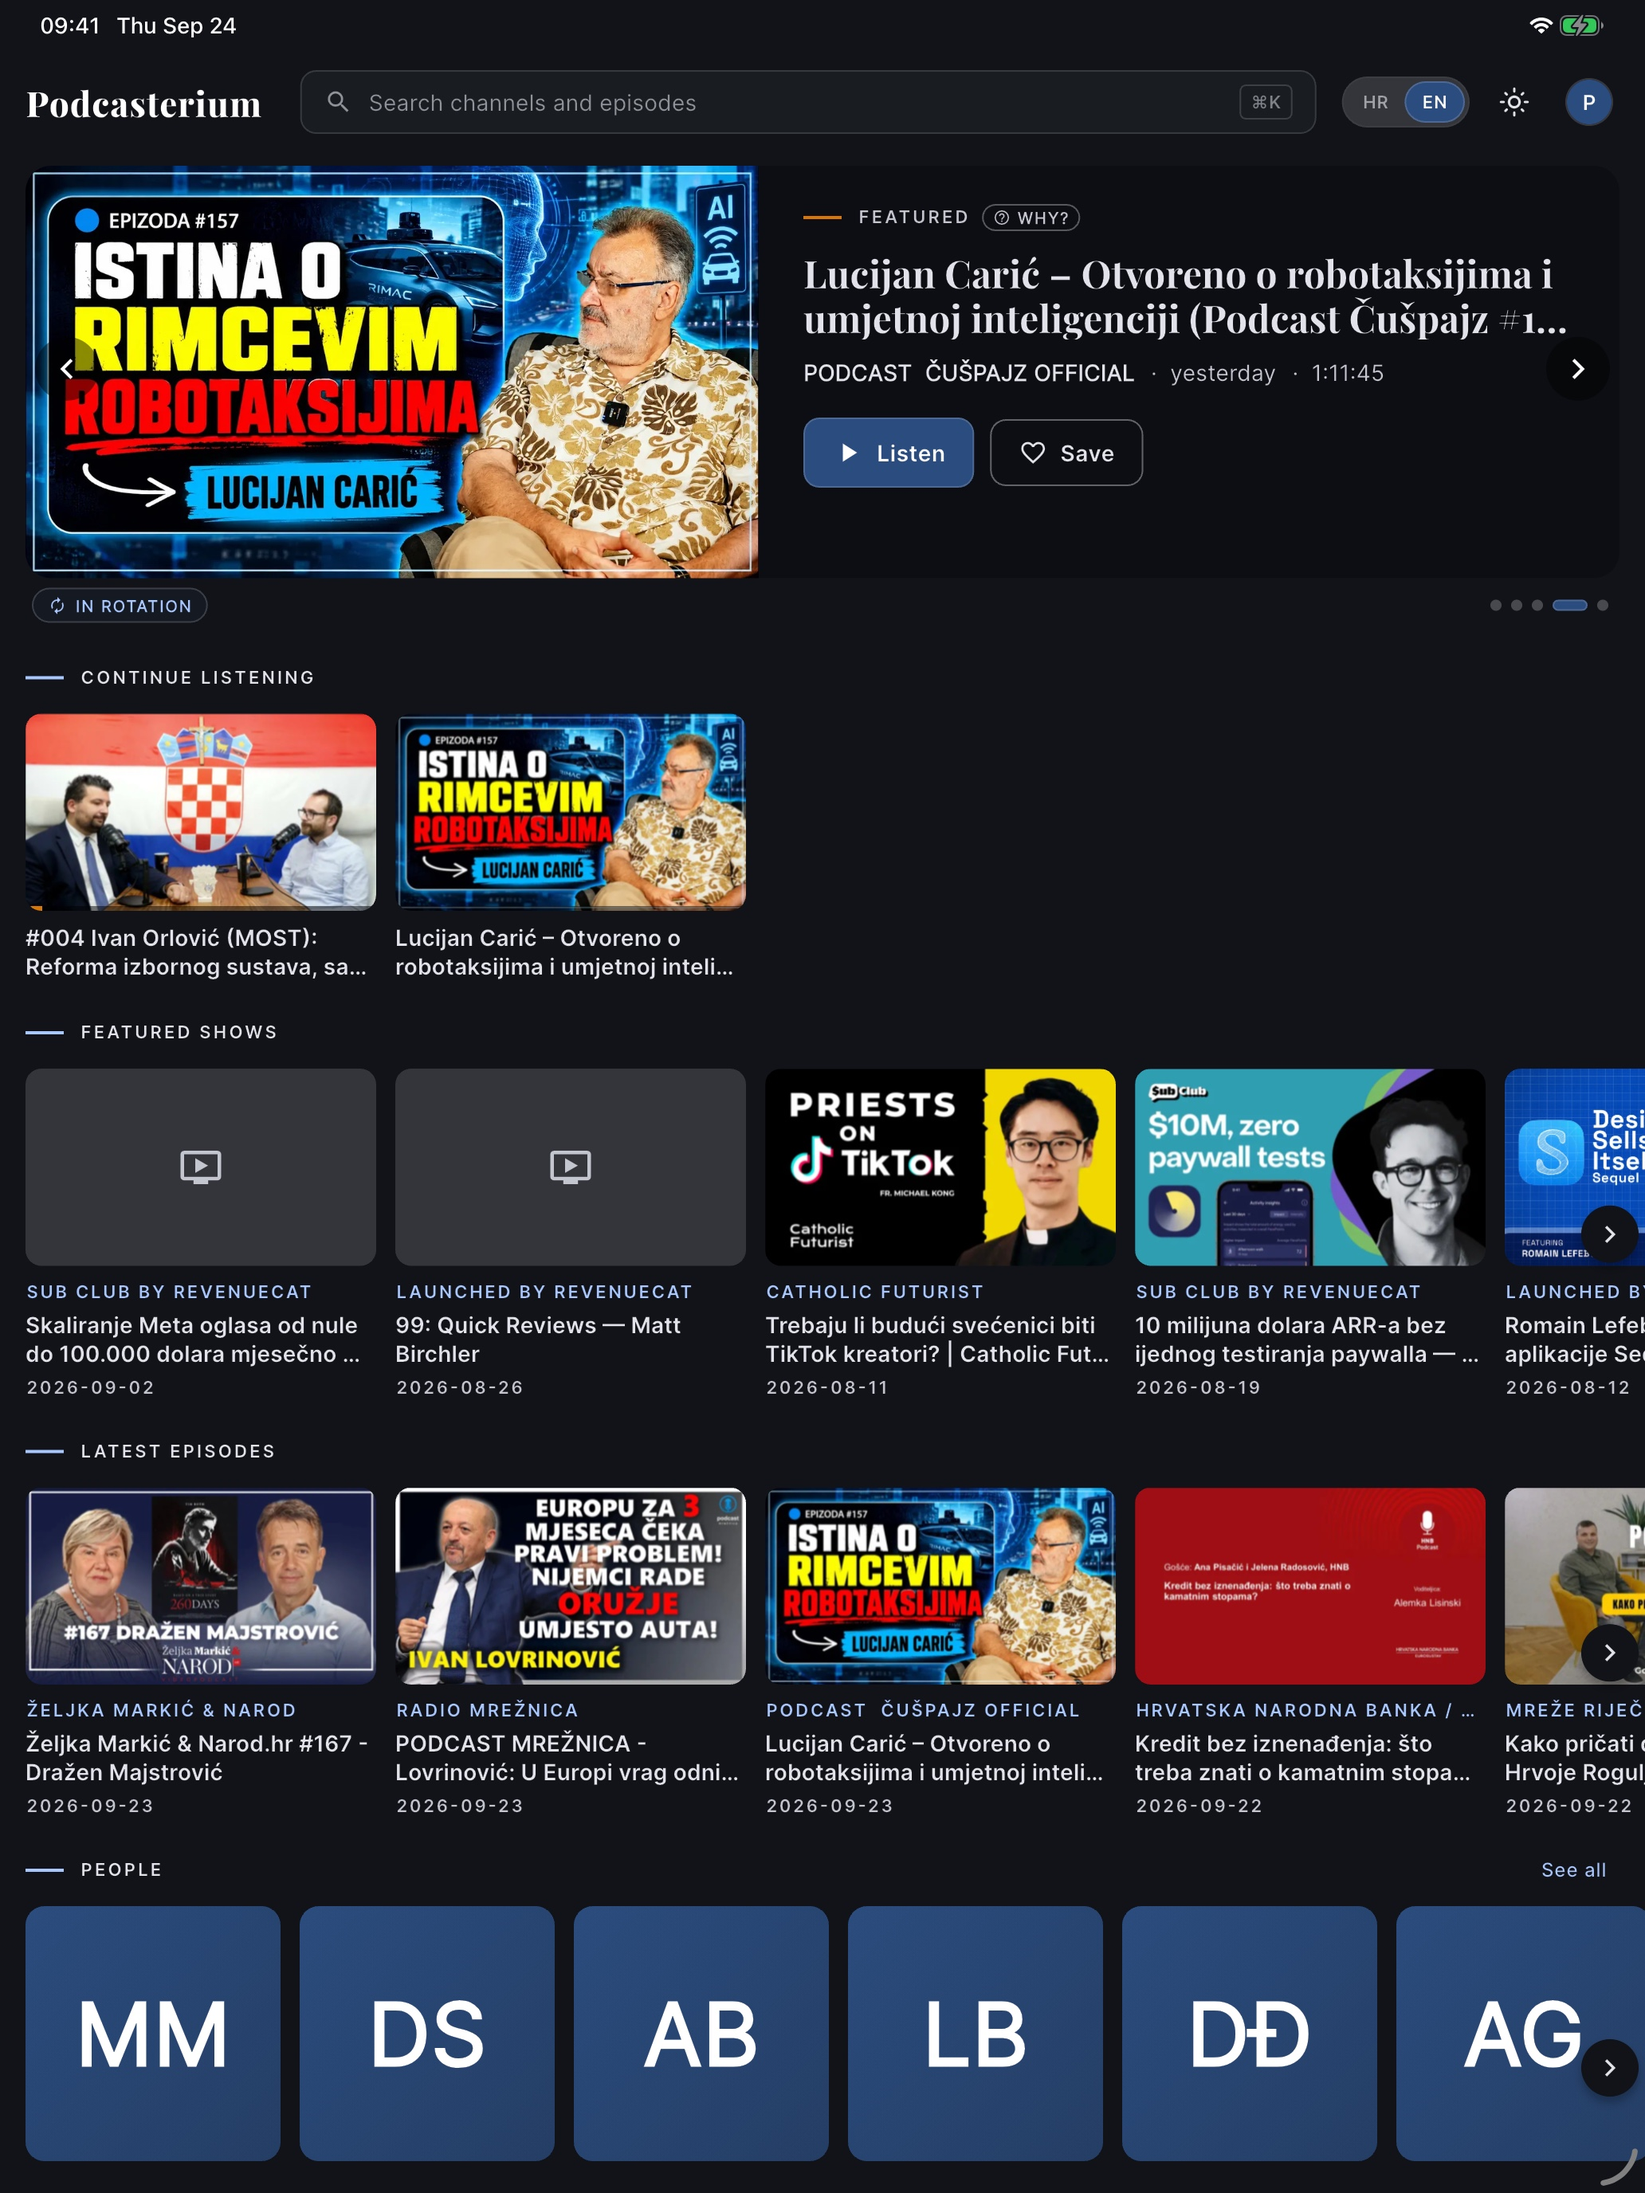
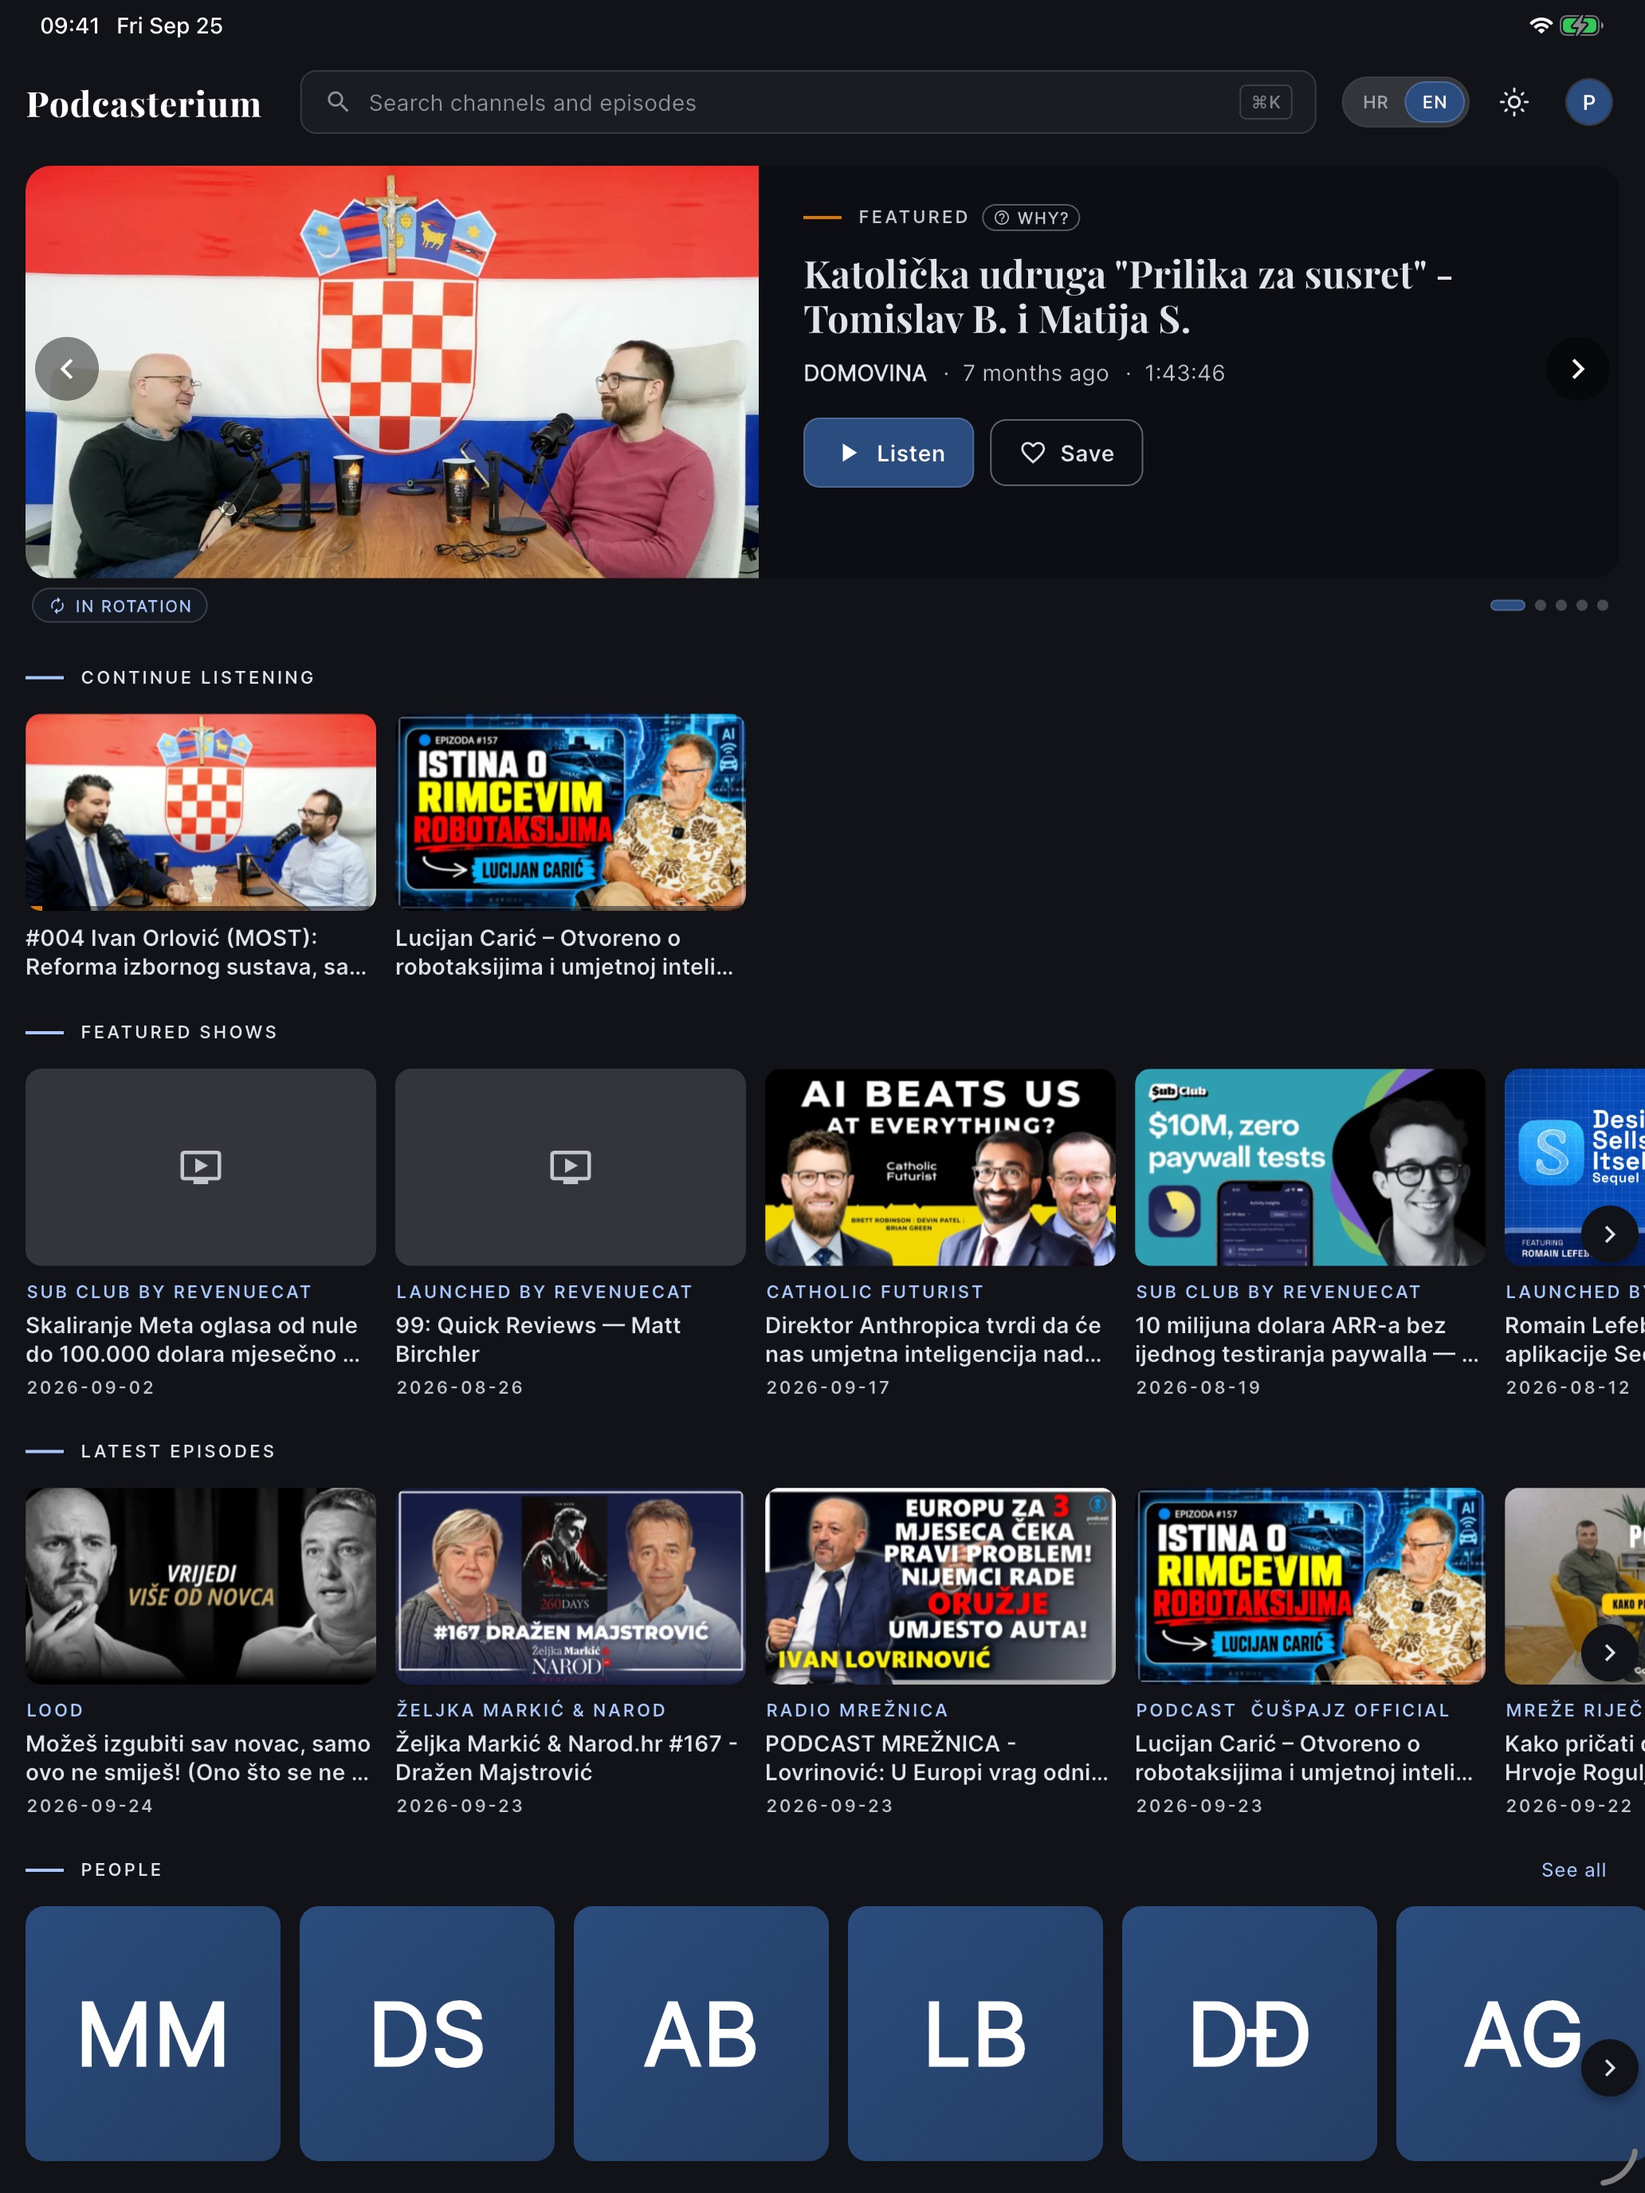
brand: home frame leads with the owner's DOMOVINA TV episode
The hero is pinned to oxq1U0xypu8 through the HERO_PIN dart-define, and
the captioned frames are re-rendered from the new captures.

diff --git a/docs/05-store-launch.md b/docs/05-store-launch.md
@@ -168,8 +168,9 @@ How it was driven, on iPhone 17 Pro Max (1320×2868) and iPad Pro 13" M5
 - Text: `keystroke` goes through autocorrect ("liberland" became
   "libel and"). Put the text on the simulator's pasteboard with
   `xcrun simctl pbcopy <udid>` and press ⌘V in the field instead.
-- The home carousel rotates; capture several frames and keep one whose
-  slide has an image (recent Sub Club and Launched episodes have none).
+- The home hero is pinned with `--dart-define=HERO_PIN=oxq1U0xypu8`
+  (core `2109bdb`): that episode leads the carousel and the carousel stops
+  rotating. Empty in every real build.
 
 **Captioned store frames** — `store-assets/marketing/`: an HTML/CSS page
 (`page.html`) with captions in `frames.js`, rendered by headless Chromium
